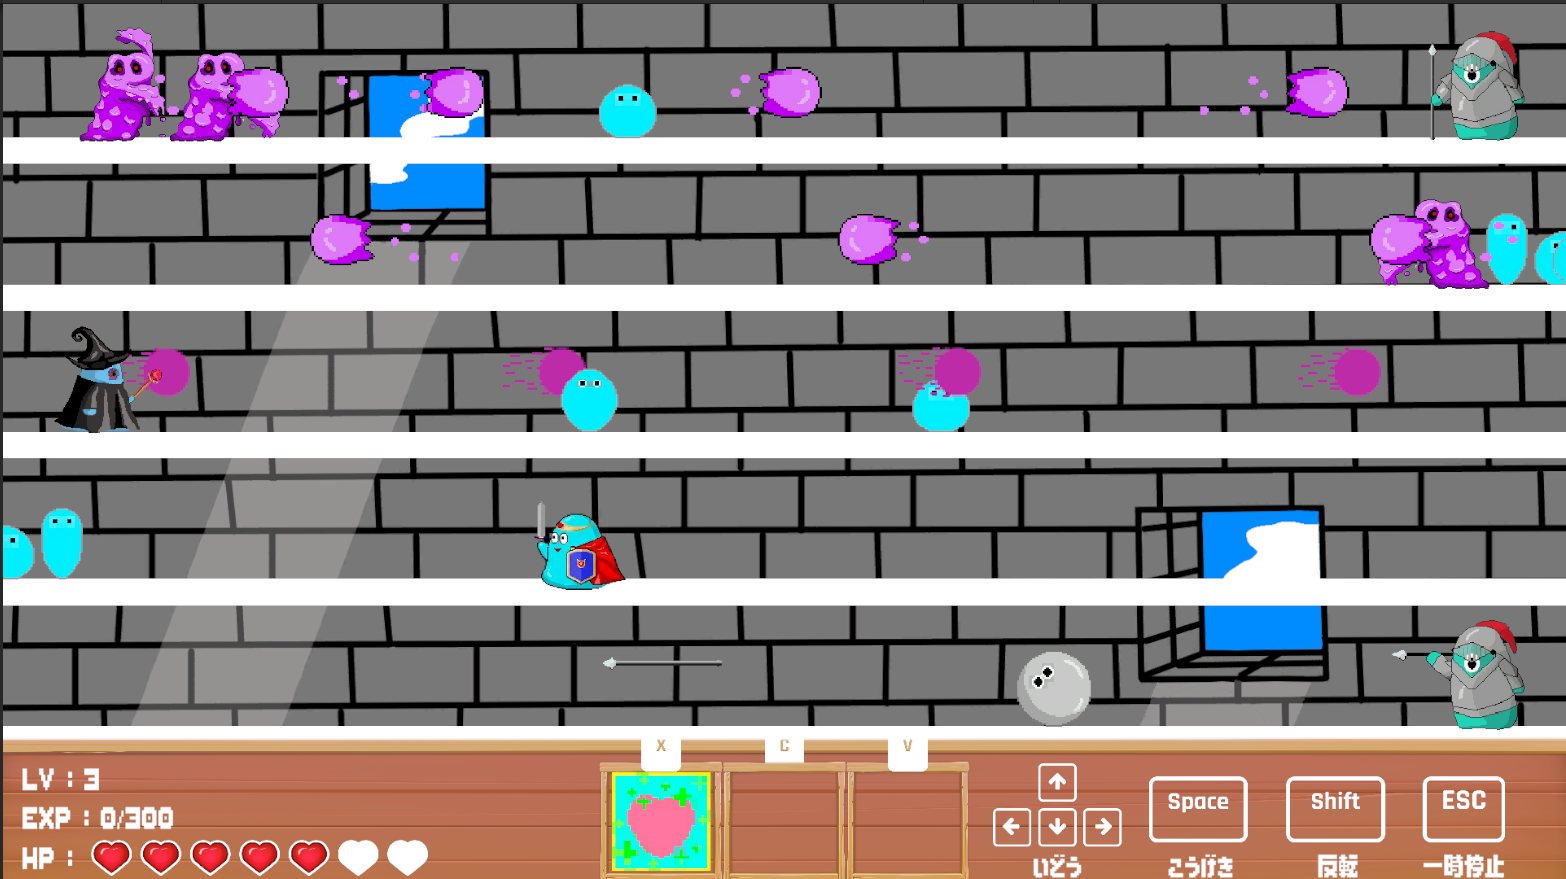
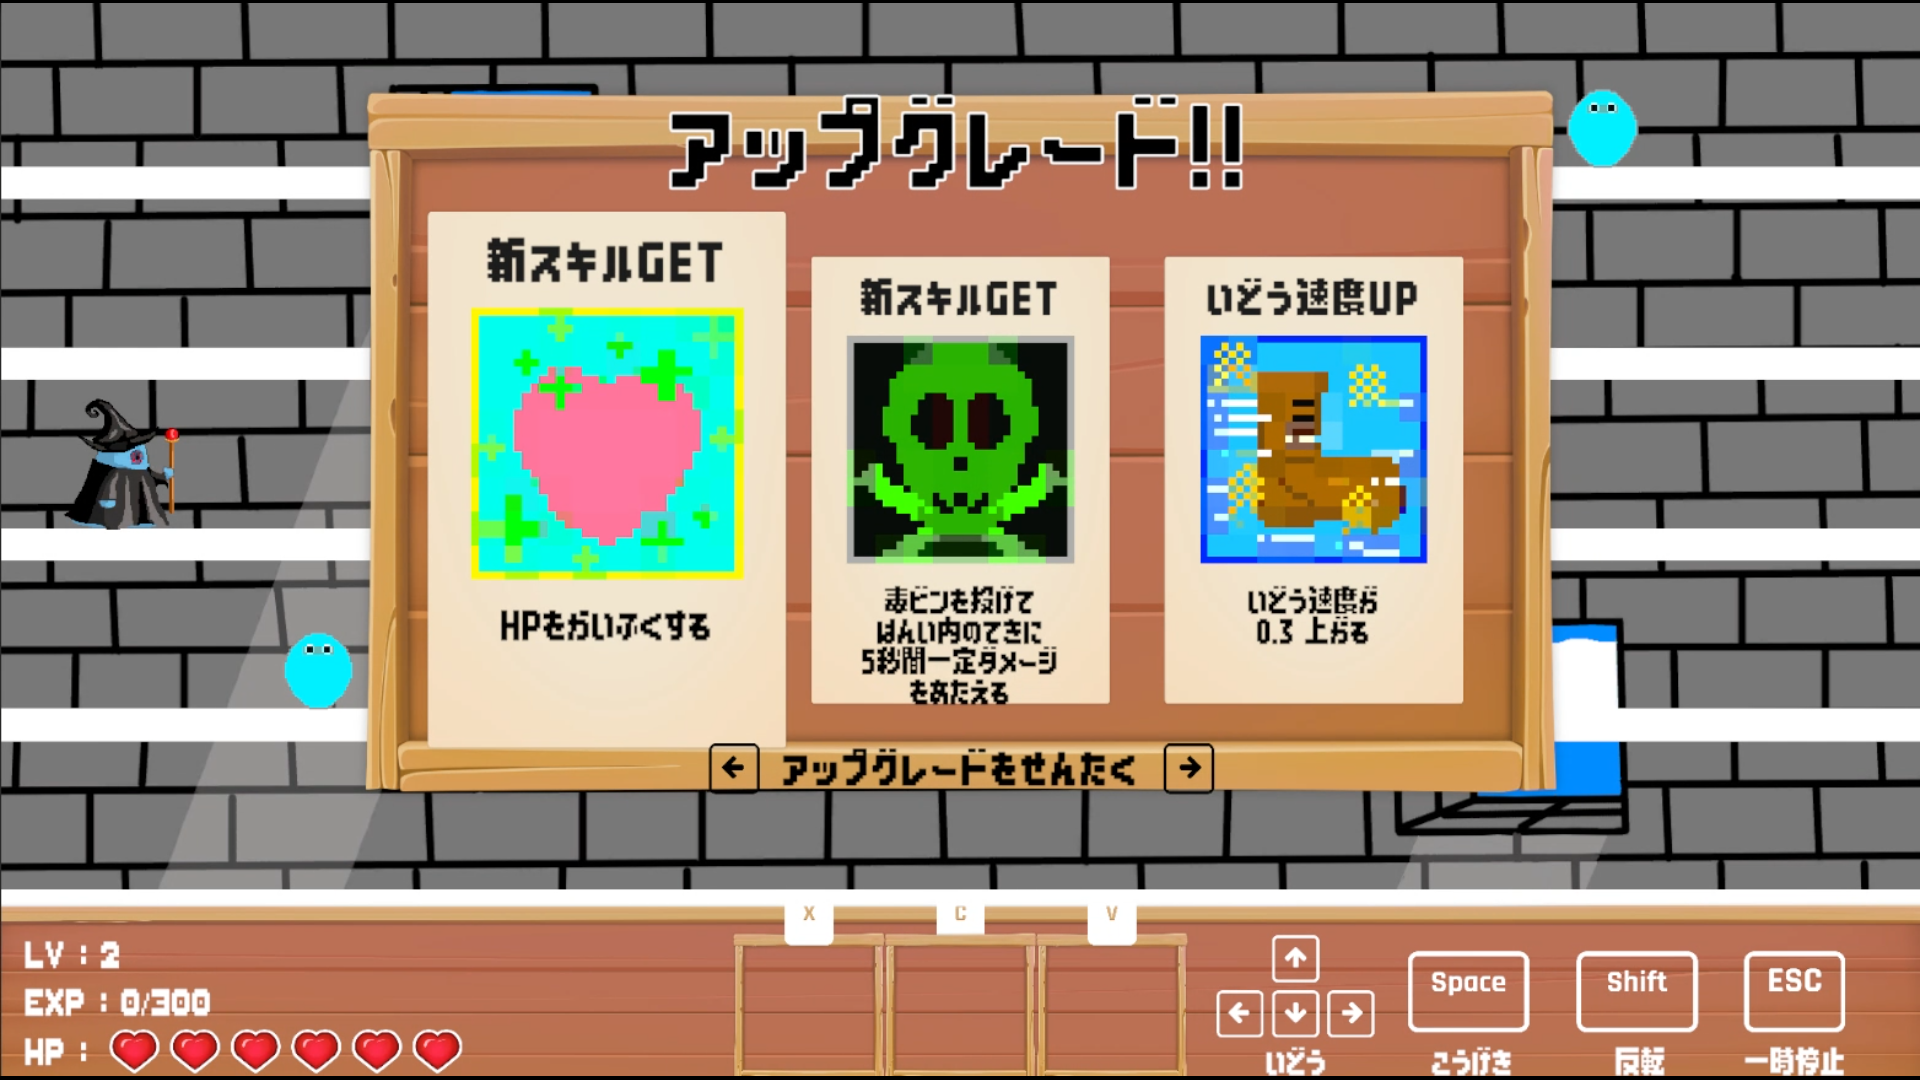
もろもろ細かい修正
・トップ画像の差し替え
・バージョン表記の追加
・スライムヒーローのイメージ画像を一部削除
・作品一覧のGithubページへ飛ぶボタンの表示非表示ができるようにした
・作品一覧にタグを追加した。

diff --git a/portfolio/src/pages/Works.js b/portfolio/src/pages/Works.js
@@ -354,7 +354,7 @@ function createWorkCard(work, workIndex) {
     // 作品タイトル
     // ------------------------------
     const workTitle = document.createElement('h3');
-    workTitle.className = 'relative text-3xl sm:text-4xl font-bold text-stone-800 tracking-wide mb-7 pl-1';
+    workTitle.className = 'relative text-3xl sm:text-4xl font-bold text-stone-800 tracking-wide mb-3 pl-1';
     workTitle.innerHTML = `${work.title}`;
 
     infoArea.appendChild(workTitle);
@@ -364,6 +364,24 @@ function createWorkCard(work, workIndex) {
     titleLine.className = 'w-full h-px bg-gradient-to-r from-orange-400 via-orange-200 to-transparent mb-5';
 
     infoArea.appendChild(titleLine);
+
+    // ------------------------------
+    // 作品タグ
+    // ------------------------------
+    if (work.tags && work.tags.length > 0) {
+      const tagsArea = document.createElement('div');
+      tagsArea.className = 'relative flex flex-wrap items-center gap-2 mb-5';
+
+      work.tags.forEach(tag => {
+        const tagElement = document.createElement('span');
+        tagElement.className = 'px-3 py-1 rounded-full bg-orange-100 border border-orange-300 text-orange-700 text-xs sm:text-sm font-bold whitespace-nowrap';
+        tagElement.textContent = tag;
+
+        tagsArea.appendChild(tagElement);
+      });
+
+      infoArea.appendChild(tagsArea);
+    }
 
     // ------------------------------
     // 基本情報
@@ -405,18 +423,20 @@ function createWorkCard(work, workIndex) {
     // ------------------------------
     // GitHubボタン
     // ------------------------------
-    const githubButton = document.createElement('a');
-    githubButton.href = work.github;
-    githubButton.target = '_blank';
-    githubButton.rel = 'noopener noreferrer';
-    githubButton.className = 'relative w-[200px] mt-auto mx-auto lg:mx-0 px-7 py-3.5 flex items-center justify-center gap-3 rounded-xl bg-orange-500 hover:bg-orange-600 text-white font-bold text-lg shadow-md hover:shadow-lg hover:-translate-y-0.5 transition-all duration-300';
+    if (work.github) {
+      const githubButton = document.createElement('a');
+      githubButton.href = work.github;
+      githubButton.target = '_blank';
+      githubButton.rel = 'noopener noreferrer';
+      githubButton.className = 'relative w-[200px] mt-auto mx-auto lg:mx-0 px-7 py-3.5 flex items-center justify-center gap-3 rounded-xl bg-orange-500 hover:bg-orange-600 text-white font-bold text-lg shadow-md hover:shadow-lg hover:-translate-y-0.5 transition-all duration-300';
 
-    githubButton.innerHTML = `
+      githubButton.innerHTML = `
         <span>GitHub</span>
         <span class="text-xl">▶</span>
-    `;
+      `;
 
-    infoArea.appendChild(githubButton);
+      infoArea.appendChild(githubButton);
+    }
 
     // ------------------------------
     // カードに追加

diff --git a/portfolio/src/datas/worksData.js b/portfolio/src/datas/worksData.js
@@ -8,9 +8,9 @@ export const worksData = [
         images: [
             'img/works/slimehero1.png',
             'img/works/slimehero2.png',
-            'img/works/slimehero3.png',
-            'img/works/slimehero4.png'
+            'img/works/slimehero3.png'
         ],
+        tags: ['2D', 'シューティング', 'ローグライク'],
         github: 'https://github.com/momiji1107/Minge2026Spring_Team2'
     },
 
@@ -23,7 +23,8 @@ export const worksData = [
         images: [
             'img/works/noimage.jpg'
         ],
-        github: 'https://github.com/PandD-Aizu/Minge2025Summer_Team3'
+        tags: ['3D', 'ホラー', 'ランダムマップ'],
+        github: ''
     },
 
     {
@@ -35,7 +36,8 @@ export const worksData = [
         images: [
             'img/works/puzzleknights2.png'
         ],
-        github: 'https://github.com/PandD-Aizu/Minge2025Spring_Team1'
+        tags: ['タワーディフェンス', 'ダークファンタジー'],
+        github: ''
     },
 
     {
@@ -51,6 +53,7 @@ export const worksData = [
             'img/works/lostofmusic4.png',
             'img/works/lostofmusic5.png'
         ],
-        github: 'https://github.com/PandD-Aizu/Minge2024Summer_Team5'
+        tags: ['2D', 'アクション'],
+        github: ''
     }
 ];

diff --git a/portfolio/src/pages/Top.js b/portfolio/src/pages/Top.js
@@ -3,13 +3,19 @@ export function initTop(container) {
   section.id = 'top';
   section.className = 'w-full min-h-screen flex items-center justify-center pt-130 bg-cover bg-center bg-no-repeat';
   
-  section.style.backgroundImage = `url('${import.meta.env.BASE_URL}img/background/CharaImage_BackGround.png')`;
+  section.style.backgroundImage = `url('${import.meta.env.BASE_URL}img/profile/koma_top.png')`;
   section.style.backgroundSize = 'cover';
   section.style.backgroundPosition = 'center';
   section.style.backgroundRepeat = 'no-repeat';
 
   section.innerHTML = `
     <div class="max-w-3xl text-center px-4">
+
+      <!-- バージョン表記 -->
+      <p class="absolute top-20 left-6 text-lg font-serif font-bold text-white"
+      style="text-shadow: 2px 2px 4px rgba(0,0,0,1);">
+        ver. 0.1.0
+      </p>
 
       <h2 class="text-7xl font-serif font-bold tracking-tight mb-1 text-white"
       style="text-shadow: 3px 3px 6px rgba(0,0,0,1);">

diff --git a/portfolio/src/datas/newsData.js b/portfolio/src/datas/newsData.js
@@ -2,8 +2,8 @@ export const newsList = [
     {
         date: '2026.08.14',
         type: 'update',
-        title: 'ポートフォリオサイトver1.0を公開しました。',
-        description: 'ポートフォリオサイトの基盤が完成したので公開しました。今後随時アップデートしていく予定です。',
+        title: 'ポートフォリオサイトver.0.1.0を公開しました。',
+        description: 'ポートフォリオサイトの基盤が完成したのでテスト公開しました。まだ細部が完成していないので随時アップデートしていく予定です。',
         url: ''
     },
 
